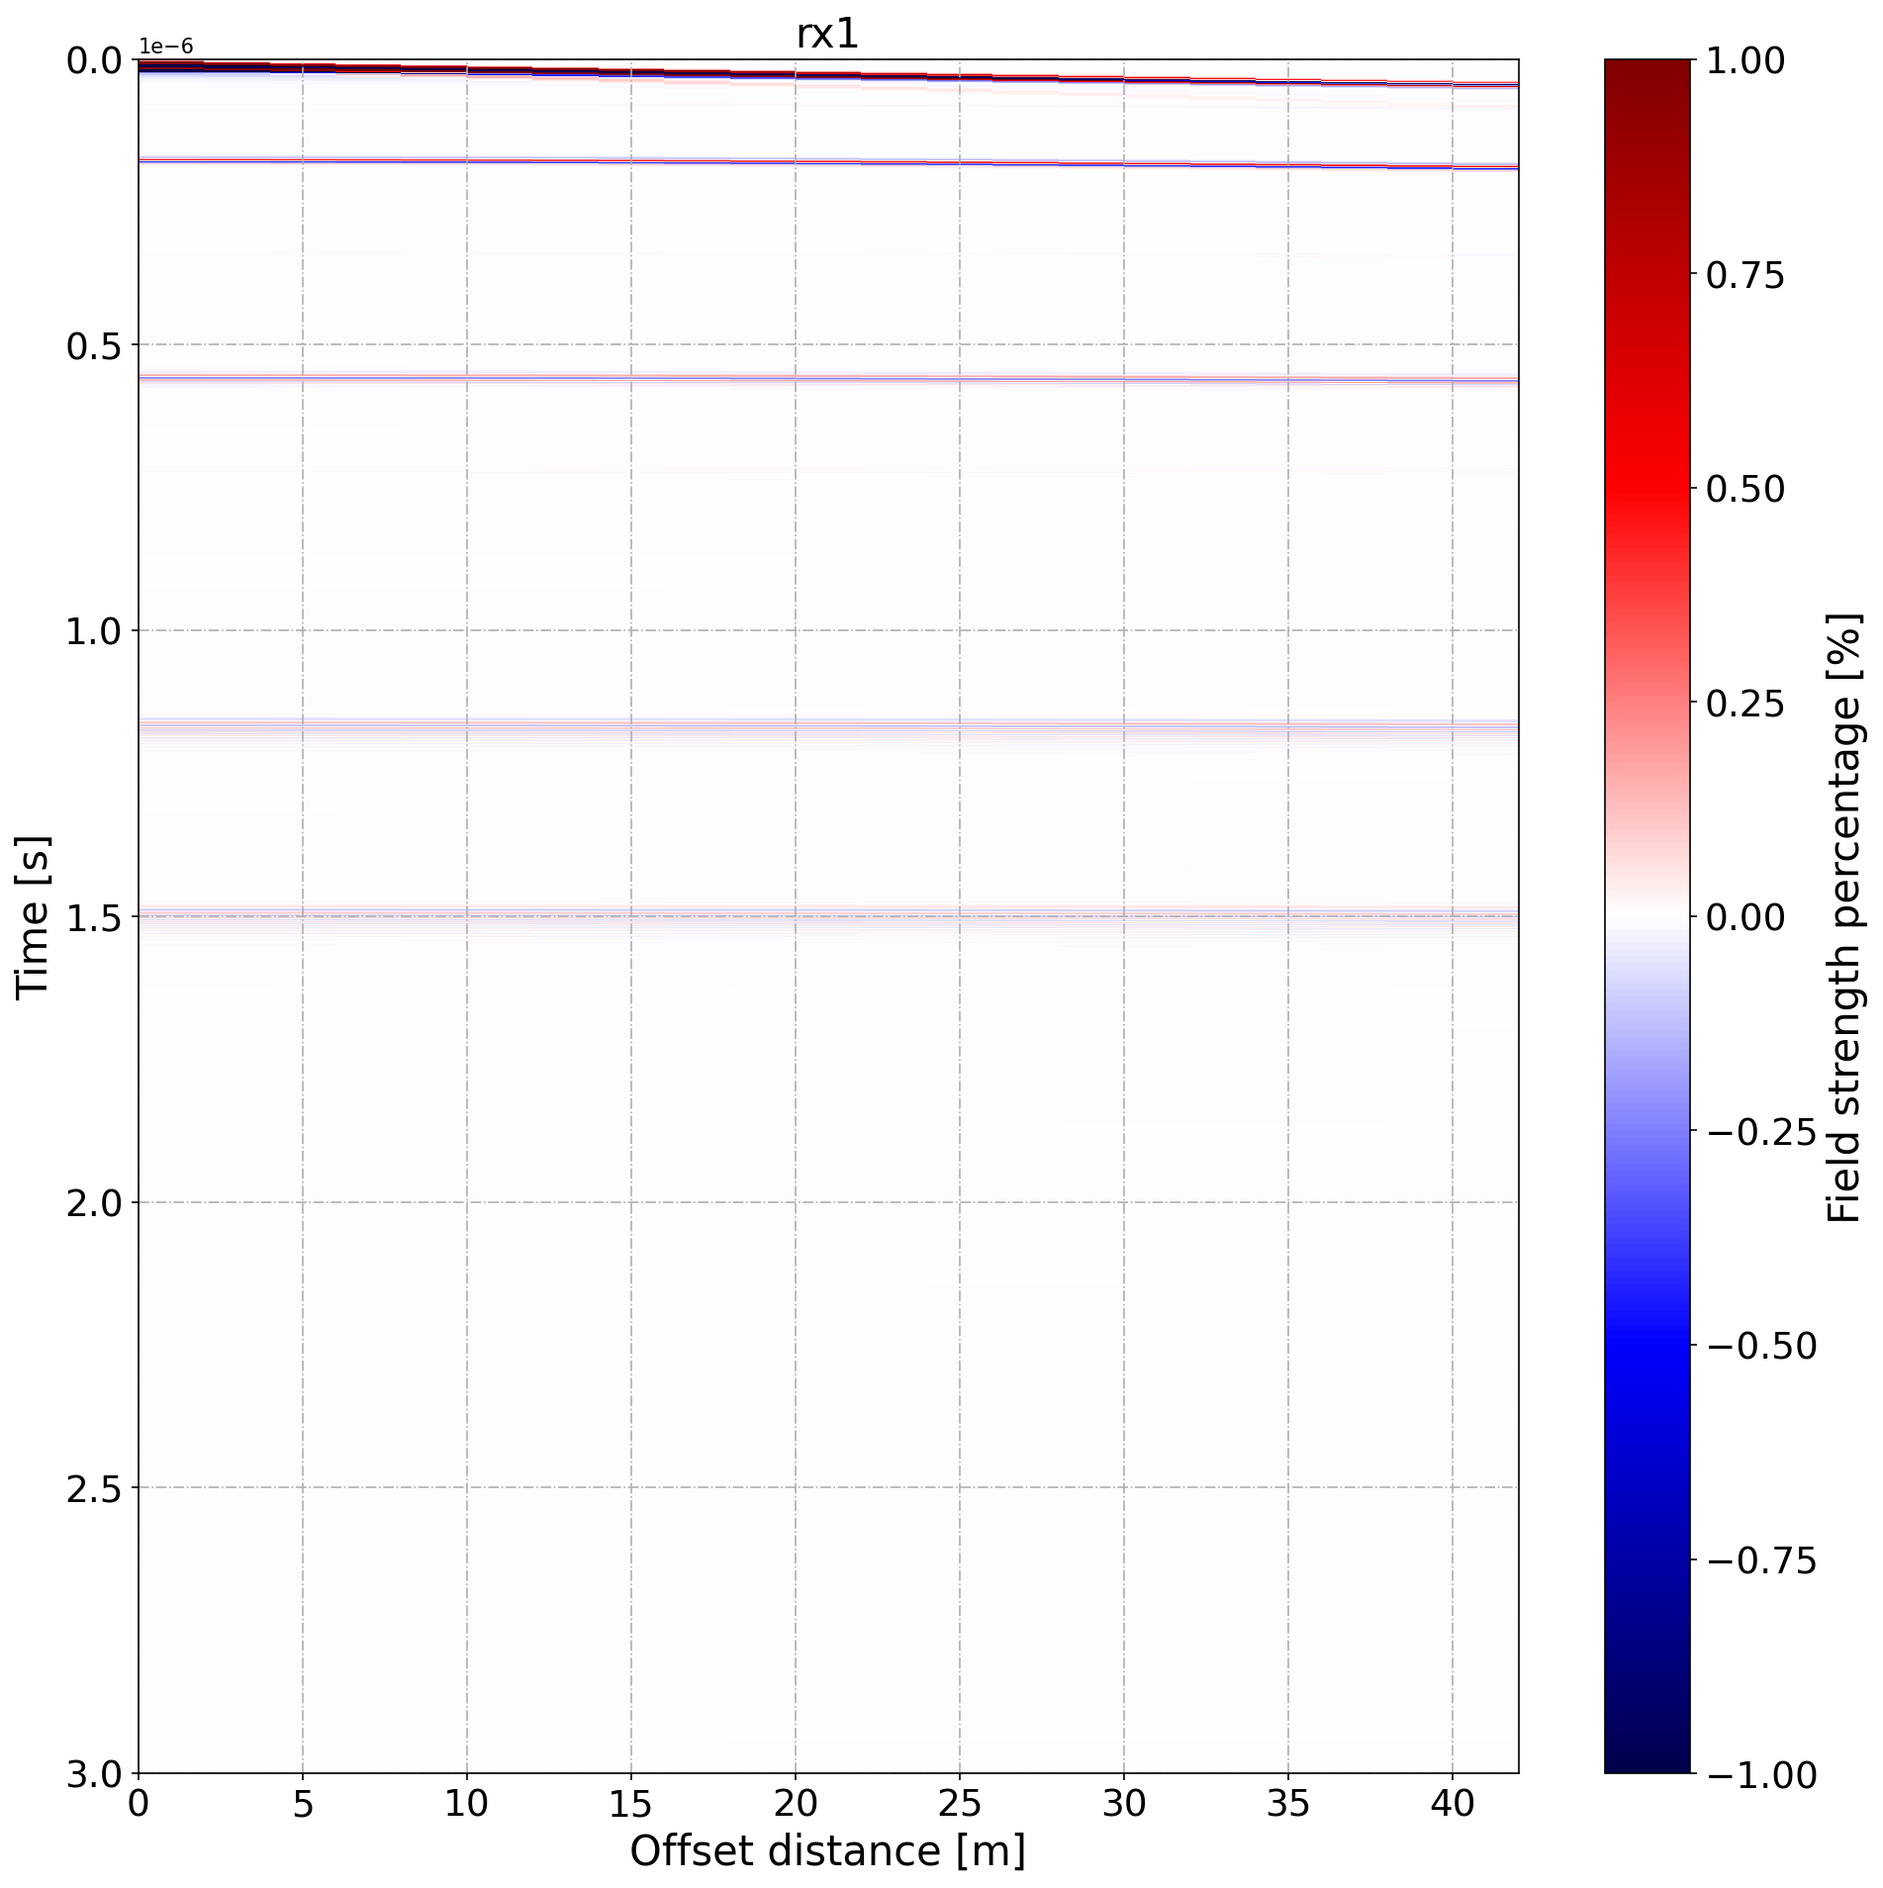
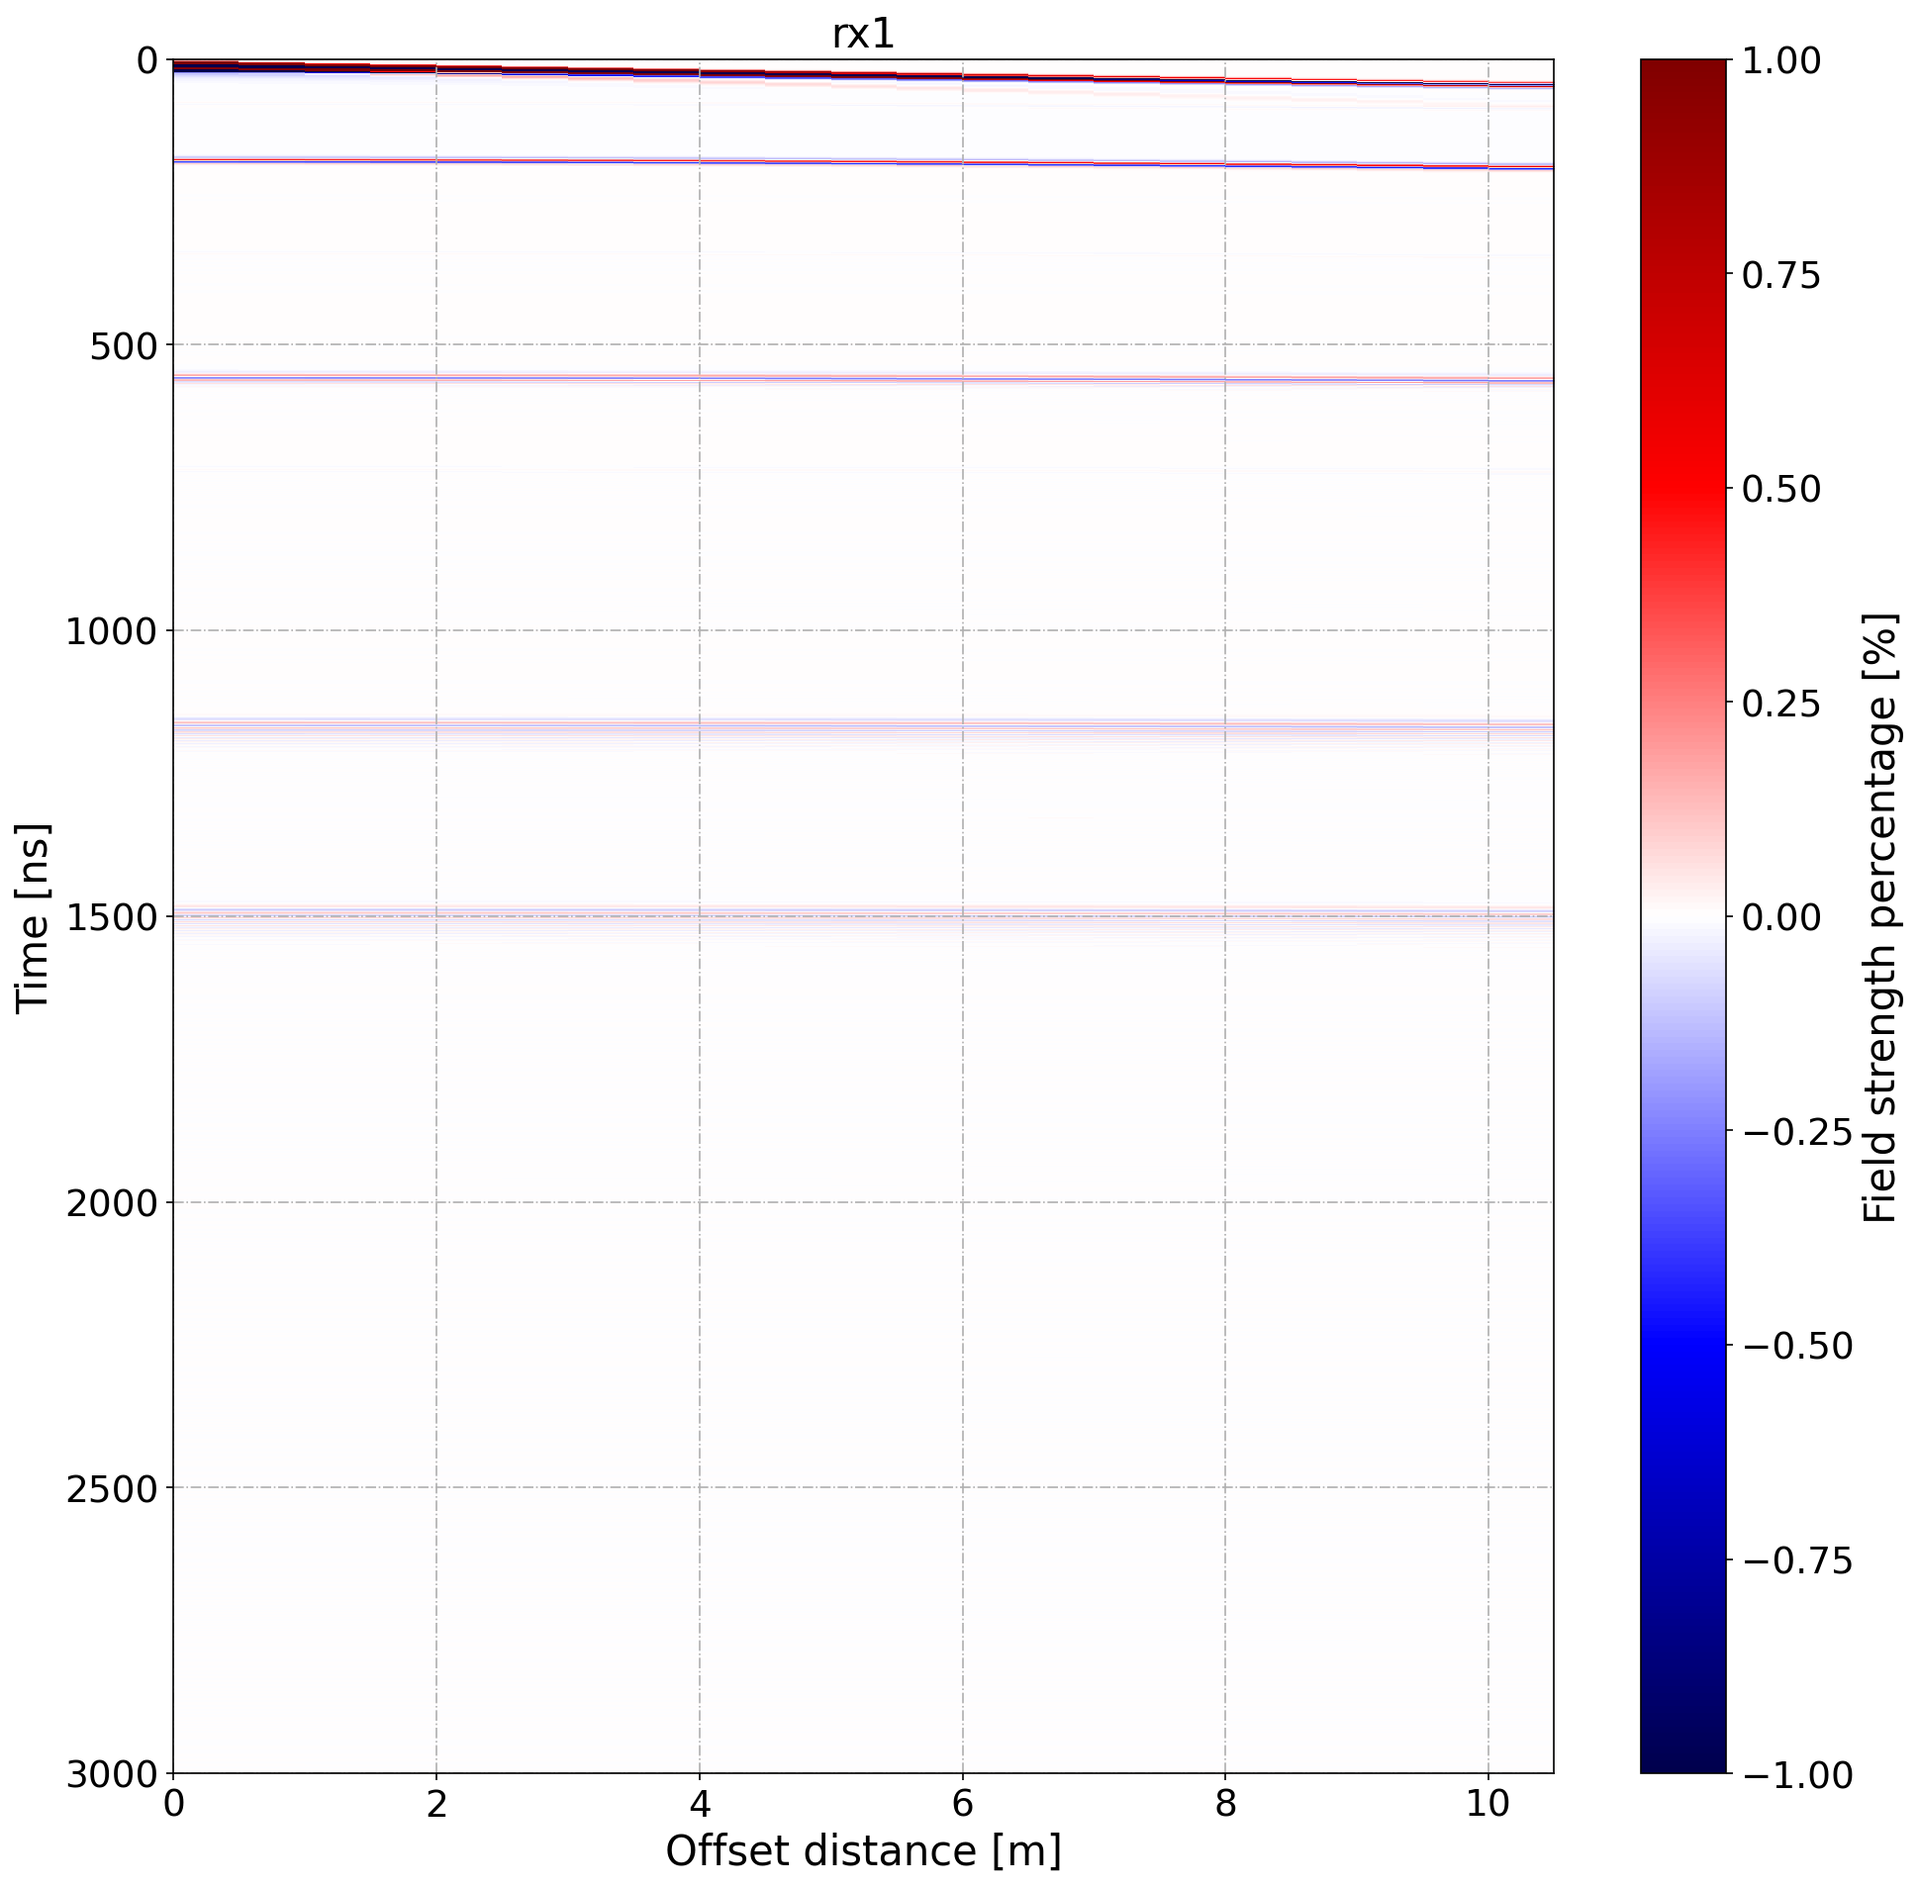
feat: Update plot scripts with extended x-axis range
The code changes in `plot_Bscan.py` and `plot_Bscan_CMP.py` modify the x-axis range of the plots. The extent of the images is multiplied by a factor of 4 instead of 2, resulting in an extended x-axis range. Additionally, the y-axis label in `plot_Bscan.py` is changed to "Time [ns]".

Based on the recent user commits and repository commits, it seems that these changes are related to improving the visualization of the B-scan plots.

diff --git a/tools/plot_Bscan.py b/tools/plot_Bscan.py
@@ -58,11 +58,11 @@ def mpl_plot(filename, outputdata, dt, rxnumber, rxcomponent, closeup=False):
 
 
     plt.imshow(outputdata_norm, 
-             extent=[0, outputdata_norm.shape[1] * 2, outputdata_norm.shape[0] * dt, 0], 
+             extent=[0, outputdata_norm.shape[1] * 4, outputdata_norm.shape[0] * dt, 0], 
             interpolation='nearest', aspect='auto', cmap='seismic', 
             vmin=-1, vmax=1)
     plt.xlabel('Offset distance [m]', fontsize=20)
-    plt.ylabel('Time [s]', fontsize=20)
+    plt.ylabel('Time [ns]', fontsize=20)
     plt.tick_params(labelsize=18)
 
     # =====closeupオプション=====
@@ -139,9 +139,11 @@ if __name__ == "__main__":
     if args.select_rx:
         rx = 1
         outputdata, dt = get_output_data(args.outputfile, rx, args.rx_component)
+        dt = dt * 1e9 # Convert to [ns]
         plthandle = mpl_plot(args.outputfile, outputdata, dt, rx, args.rx_component, args.closeup)
     else:
         for rx in range(1, nrx + 1):
             outputdata, dt = get_output_data(args.outputfile, rx, args.rx_component)
+            dt = dt * 1e9 # Convert to [ns]
             plthandle = mpl_plot(args.outputfile, outputdata, dt, rx, args.rx_component, args.closeup)
     plthandle.show()

diff --git a/tools/plot_Bscan_CMP.py b/tools/plot_Bscan_CMP.py
@@ -68,7 +68,7 @@ ax = fig.add_subplot(111)
 
 src_step = params['antenna_settings']['src_step']
 plt.imshow(data_lits_CMP, aspect='auto', cmap='seismic', interpolation='nearest',
-            extent=[0, data_lits_CMP.shape[1]*src_step*2, data_lits_CMP.shape[0] * dt, 0],
+            extent=[0, data_lits_CMP.shape[1]*src_step*4, data_lits_CMP.shape[0] * dt, 0],
             vmin=-1, vmax=1)
 ax.set_title('CMP B-scan', fontsize=20)
 ax.set_xlabel('Tx - Rx [m]', fontsize=20)
